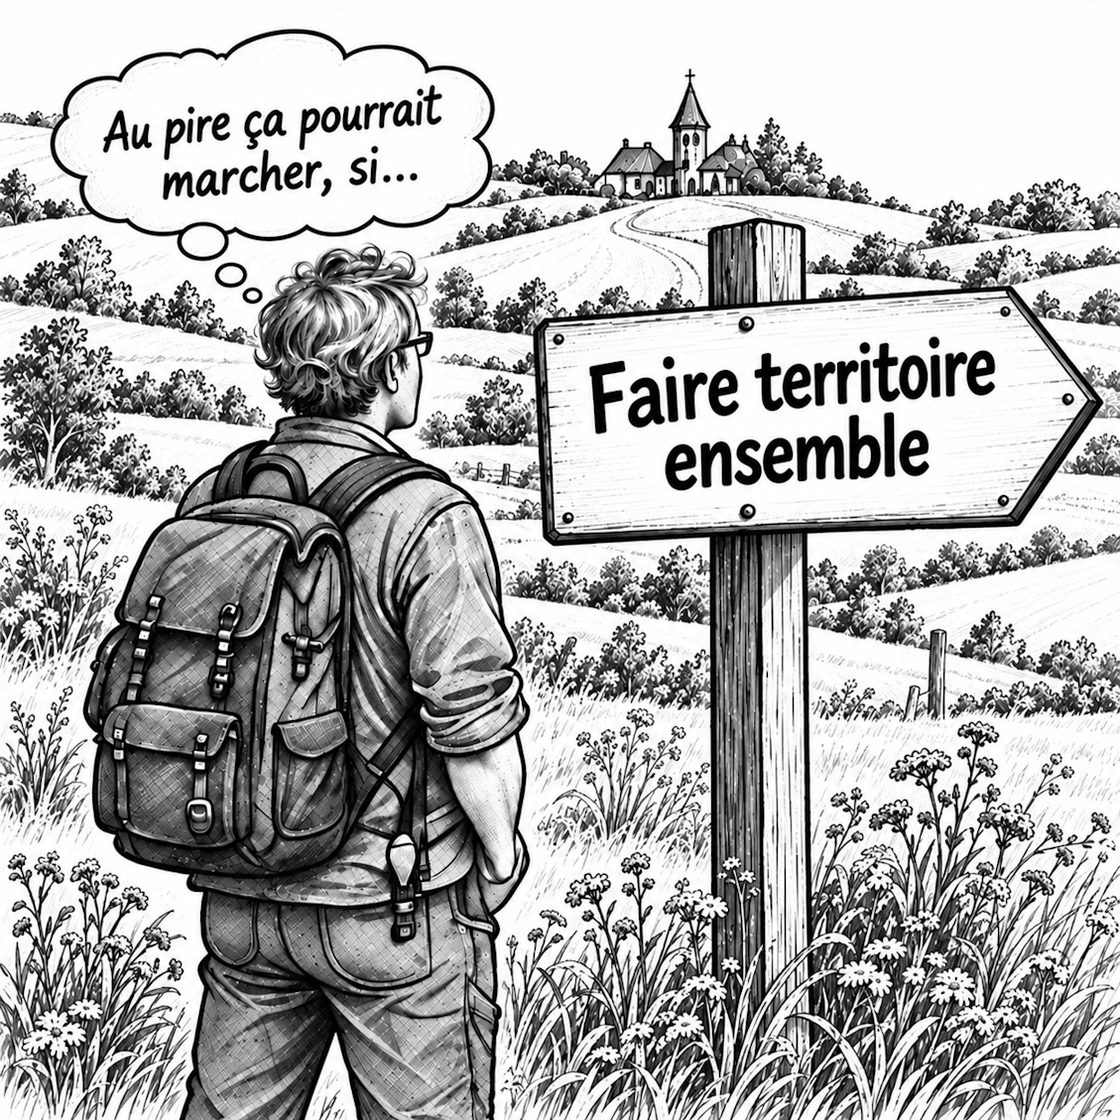
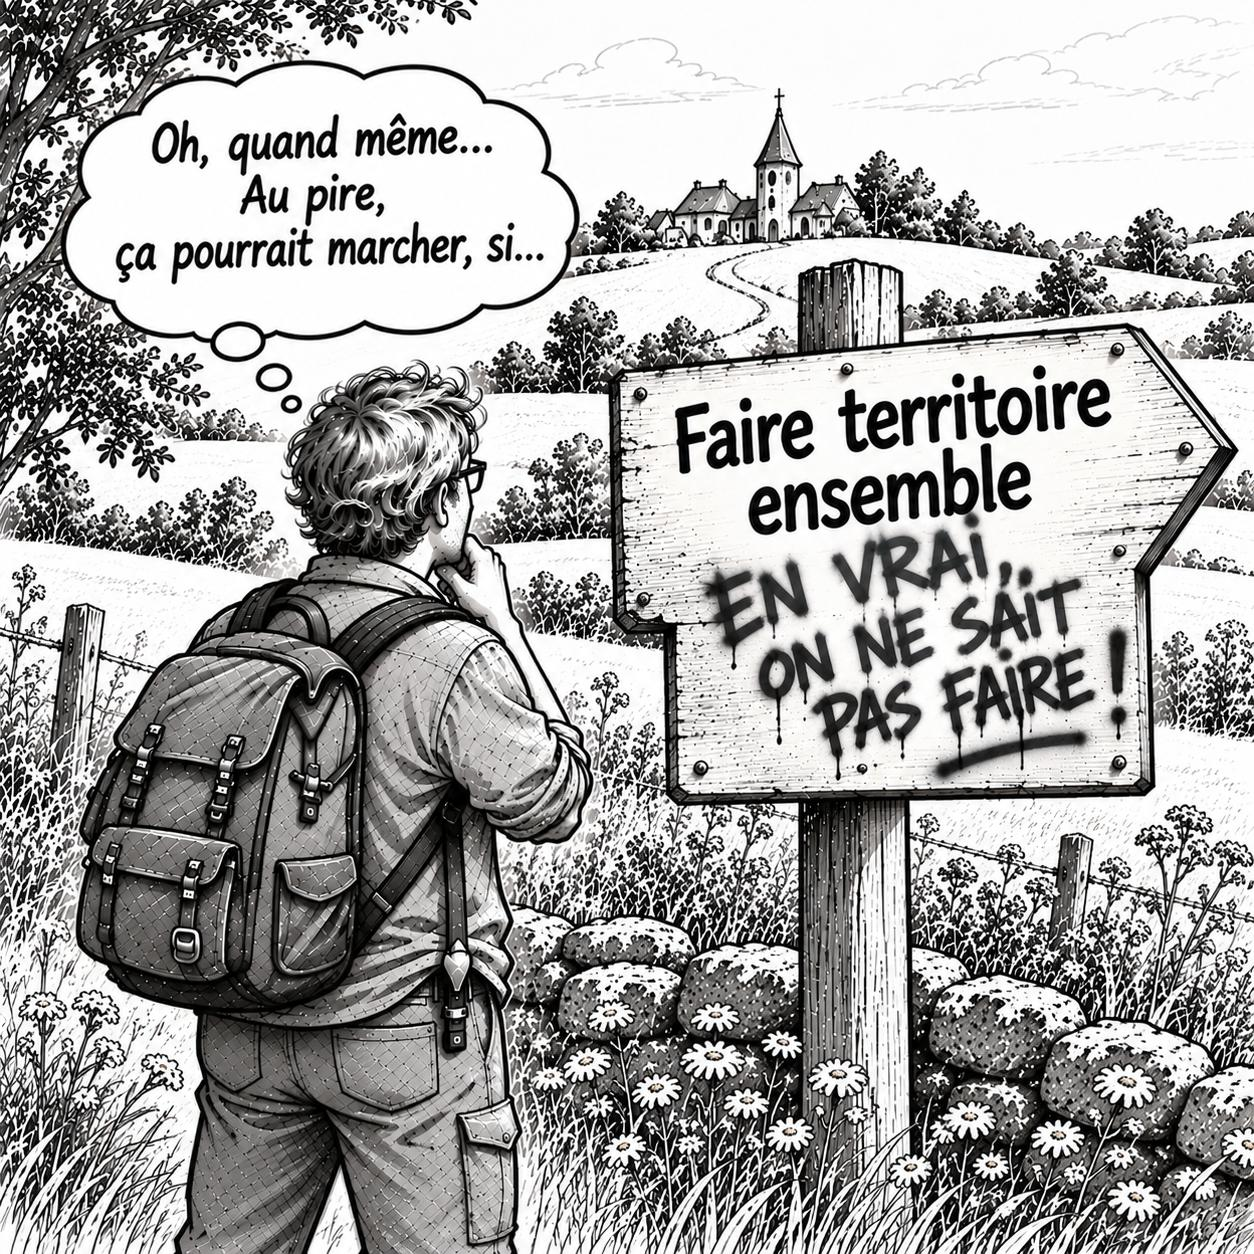
Case 6 : graffiti « En vrai, on ne sait pas faire », textes recto/verso et accroche du bulletin
Claude-Session: https://claude.ai/code/session_01PEccqWC6WBdrEQMaAmfqru

diff --git a/quartz/static/trajectoire/index.html b/quartz/static/trajectoire/index.html
@@ -218,15 +218,15 @@ footer{max-width:1180px;margin:auto;padding:26px 20px 40px;border-top:1px solid 
       <div class="copy">
         <div class="num">6</div>
         <div class="micro">RECTO : UN CAP</div>
-        <h2>Au pire ça pourrait marcher, si…</h2>
+        <h2>Et si on continuait autrement ?</h2>
         <blockquote>« Pas un carrefour, un cap. »</blockquote>
-        <p class="legend">« Faire territoire ensemble » : une formule qui circule partout, signe d'une préoccupation largement partagée en ces temps d'épuisements institutionnels. Une seule flèche : automne 2026, c'est par là. <strong>Comment cultiver, avec d'autres, les capacités nécessaires pour continuer à habiter un territoire et à prendre soin de son avenir ?</strong></p>
+        <p class="legend"><strong>Comment cultiver, avec d'autres, les capacités nécessaires pour continuer à habiter un territoire et à prendre soin de son avenir ?</strong></p>
       </div>
-      <div class="visual"><img src="/images/trajectoire/card-06.jpg" alt="Un randonneur devant une flèche « Faire territoire ensemble » : au pire ça pourrait marcher, si…"></div>
+      <div class="visual"><img src="/images/trajectoire/card-06.jpg" alt="Un randonneur devant une flèche « Faire territoire ensemble » sur laquelle quelqu'un a tagué « En vrai, on ne sait pas faire ! ». Il pense : « Oh, quand même… Au pire, ça pourrait marcher, si… »"></div>
     </section>
     <section class="slide verso" data-state="06V">
       <div class="verso-head"><div class="num">6</div><div><div class="micro">VERSO : CE QUE ÇA MET EN TRAVAIL</div><h2>Automne 2026 : ce à quoi je prête attention</h2></div></div>
-      <p class="verso-text">Je ne cherche plus la bonne direction : j'enquête sur les chemins praticables pour poursuivre cette expérience. Voici ce que j'ai posé à mon agenda de préoccupations pour les semaines qui viennent.</p>
+      <p class="verso-text">« En vrai, on ne sait pas faire. » À vérifier là où ça se fait. Voici où je regarde cet automne.</p>
       <div class="qbox"><h3>Au fil de l'agenda</h3><ul><li>Un arpentage : « Voulons-nous encore vivre ensemble ? »</li><li>La plénière de la communauté apprenante CARe Robustesse et soin</li><li>Le congrès des parcs naturels régionaux</li><li>Les journées des savoirs reliés et engagés</li><li>Le colloque ASSTER : « Relations associations territoires. Vers un nouveau paradigme ? »</li><li>Le forum national de l'ESS à Niort, « Faire territoire ensemble »</li><li>La formation-action « transition écologique juste avec l'ESS et l'éducation populaire »</li><li>Les journées « Des voix et des pratiques », en mars à Paris</li></ul></div>
       <div class="qbox" style="background:var(--orange);border-color:#f2d5bf"><h3>En toile de fond</h3><p style="margin:0;line-height:1.55">La tentative de l'université populaire des futurs essayés, dont l'incubation s'amorce et n'a pas de bornes. Et l'idée d'une action locale soutenue par les recherches et sciences participatives.</p></div>
       <div class="resources">

diff --git a/mmw-content/dossiers/bulletin-situation-automne-2026/index.md b/mmw-content/dossiers/bulletin-situation-automne-2026/index.md
@@ -30,7 +30,7 @@ terrain: Boischaut Sud
 >
 > J. Dewey[^2]
 
-« Au pire ça pourrait marcher, si… » : c'est la bulle de la case 6 du fanzine [Trajectoire](/static/trajectoire/), devant une flèche qui dit « Faire territoire ensemble ». Ce bulletin est la porte derrière cette flèche. Il dit où j'en suis à l'automne 2026, huit ans après l'assemblée générale de l'ADAR-Civam, dont la thématique ce jour-là était « Habiter le Boischaut Sud, investir et s'investir : les actions collectives des acteurs ruraux » (aujourd'hui j'y adhère), à qui il peut servir, et comment il va bouger jusqu'à l'été 2027. Pas un carrefour, un cap.
+« En vrai, on ne sait pas faire ! » Quelqu'un l'a écrit sur la flèche « Faire territoire ensemble ». Oh, quand même… Au pire, ça pourrait marcher, si… C'est la case 6 du fanzine [Trajectoire](/static/trajectoire/). Ce bulletin est la porte derrière cette flèche. Il dit où j'en suis à l'automne 2026, huit ans après « Habiter le Boischaut Sud, investir et s'investir : les actions collectives des acteurs ruraux » (aujourd'hui j'y adhère), à qui il peut servir, et comment il va bouger jusqu'à l'été 2027. Pas un carrefour, un cap.
 
 ## À qui ça sert
 
